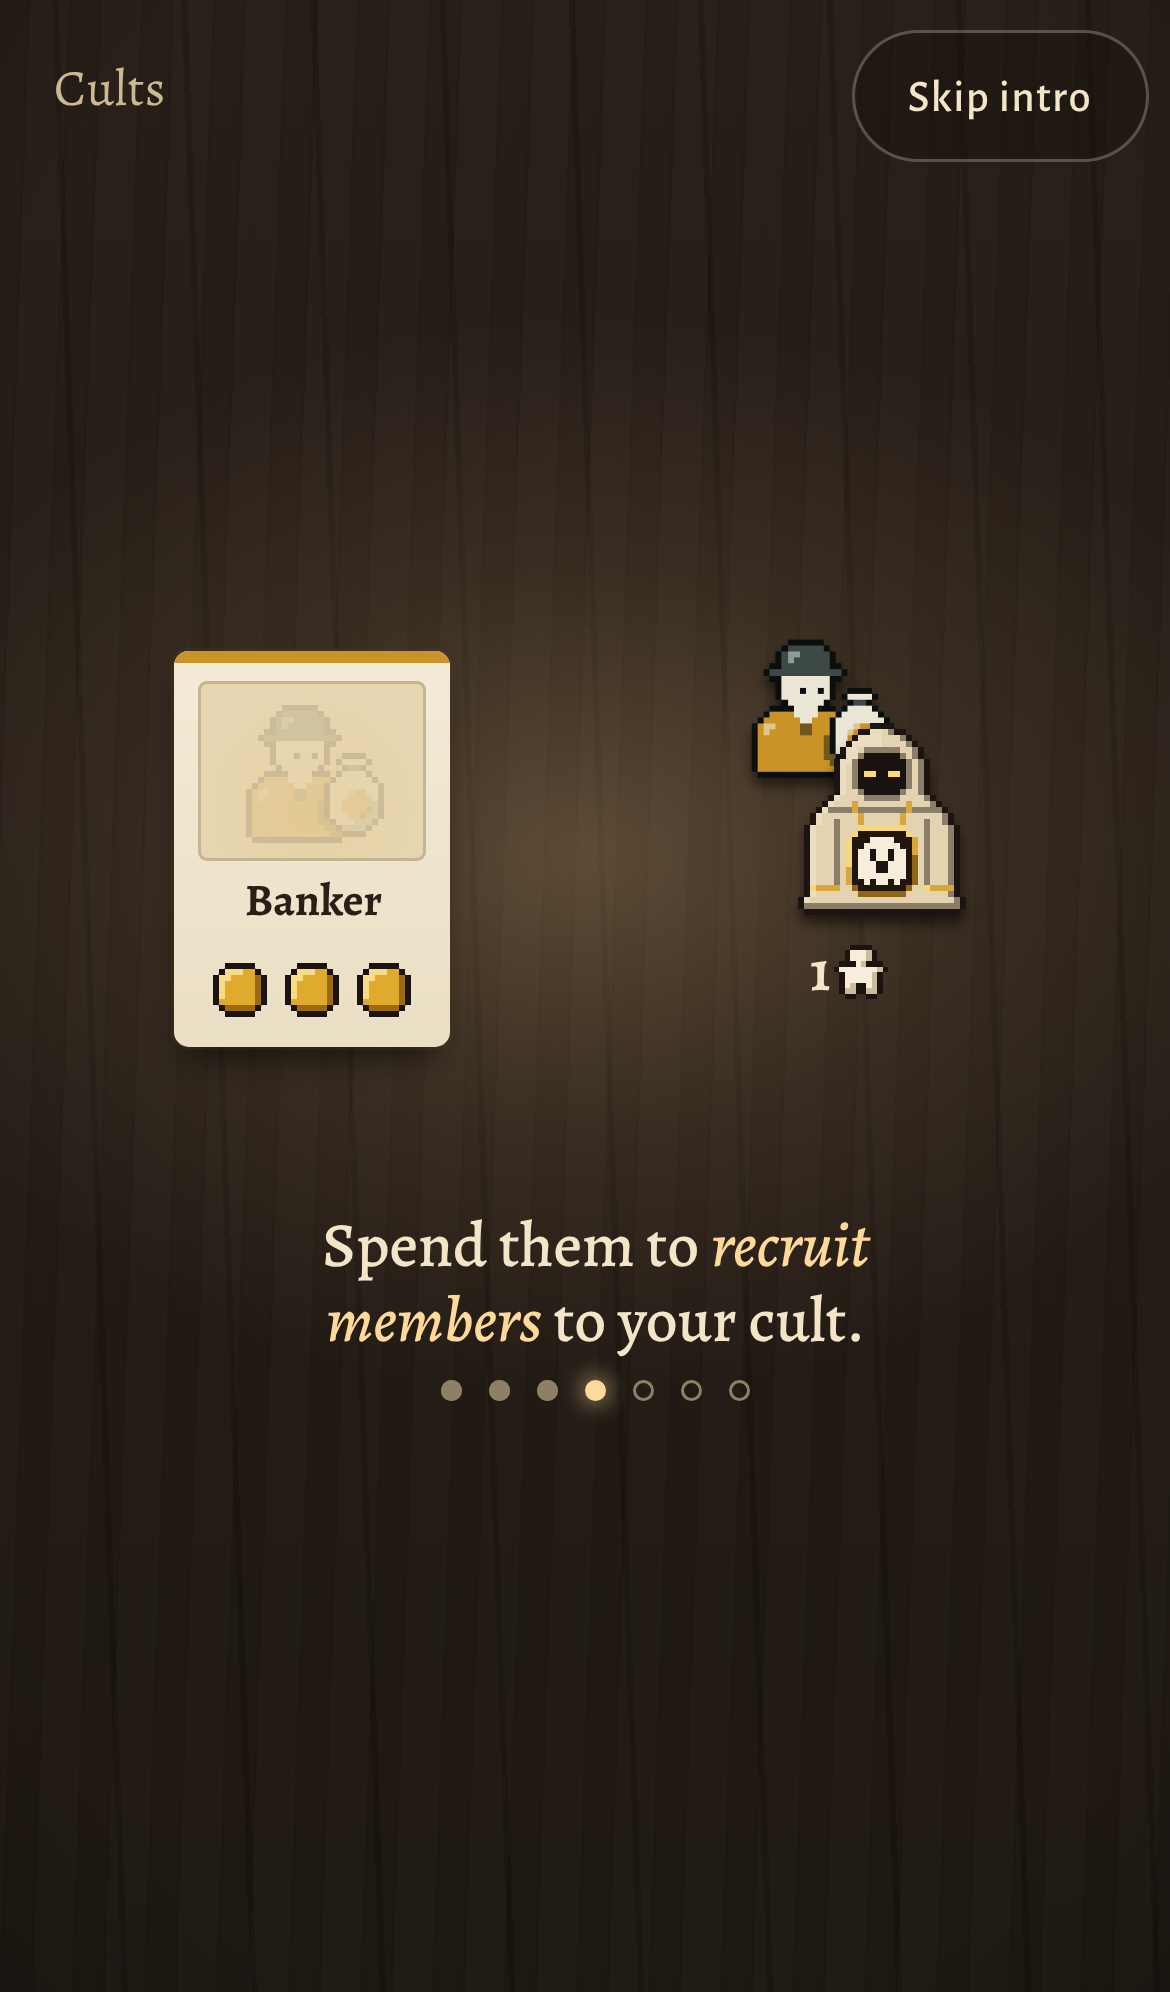
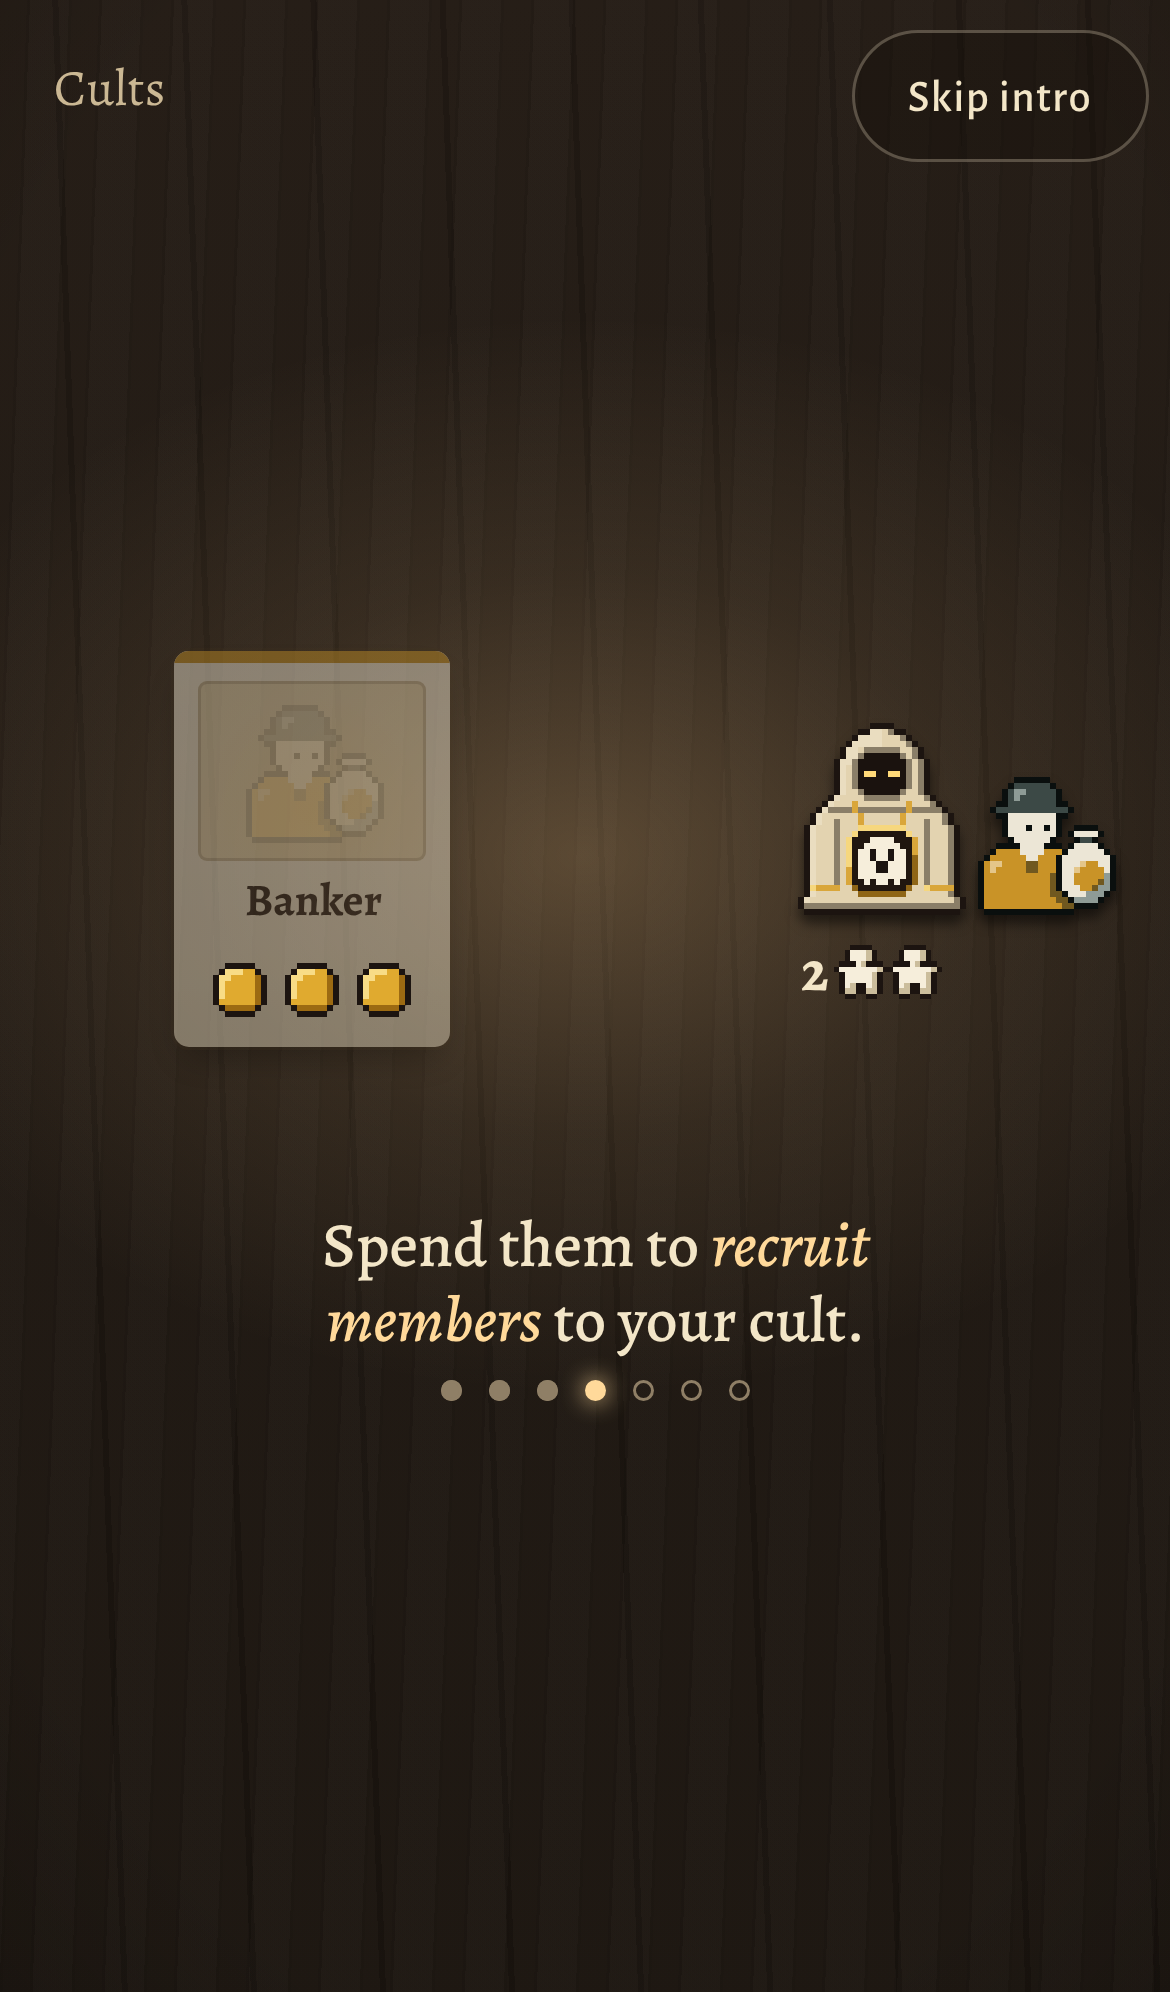
CI: run on release tags and by hand only, not on every WIP push (Cory: failure emails)
Claude-Session: https://claude.ai/code/session_017rw3aQa9iJEjdvvwQLY84z

diff --git a/src/v4/game/HoverCards.jsx b/src/v4/game/HoverCards.jsx
@@ -14,6 +14,7 @@ import { CostPips } from './Rich.jsx';
 import { ResourceGlyph, FollowerMark, SeatFigure } from './Glyphs.jsx';
 import { payBreakdown, contestEffect, unlockedBy, surely } from './cards.js';
 import { lastMoves } from './seats.js';
+import { memberCopyTargets } from './cards.js';
 import './lamp-b.css';
 
 const RINGS = ['outer ring', 'middle ring', 'inner ring'];
@@ -90,6 +91,7 @@ export function usePreviewWarmup(state, pid) {
  */
 export function HoverCardLayer({ hover, state, me, optionFor = () => null, onPick }) {
   const c = useHoverCard(hover);
+  useCopyTargets(c, state, me);
   const box = useRef(null);
   const [pos, setPos] = useState(null);
   useEffect(() => { if (c && !c.pinned) hover.close(); }, [state.moves]); // eslint-disable-line react-hooks/exhaustive-deps
@@ -133,6 +135,25 @@ export function HoverCardLayer({ hover, state, me, optionFor = () => null, onPic
     </div>
   );
 }
+/**
+ * While a copy space (Echo, Encore, Refrain…) or a copying member (Understudy) is under the pointer, the spaces it
+ * could copy light up on the wheel ("since your turn" targets), straight from the engine. Classes are toggled on the
+ * board's [data-slot] elements, so the wheel never re-renders for it.
+ */
+function useCopyTargets(c, state, me) {
+  const viewer = me != null ? me : state.pending ? state.pending.player : null;
+  const space = c && c.kind === 'space' ? c.key.split('-').map(Number) : null;
+  const pv = usePreview(state, space && viewer != null && !state.over ? viewer : null, space ? space[0] : 0, space ? space[1] : 0);
+  let keys = pv && pv.copies ? pv.copies : null;
+  if (!keys && c && c.kind === 'card' && viewer != null && state.cards[c.uid]) keys = memberCopyTargets(state, viewer, cardDef(state, c.uid));
+  const sig = keys ? keys.join(',') : '';
+  useEffect(() => {
+    if (!sig) return undefined;
+    const els = sig.split(',').flatMap(k => [...document.querySelectorAll(`[data-slot="${k}"]`)]);
+    for (const el of els) el.classList.add('copy-target');
+    return () => { for (const el of els) el.classList.remove('copy-target'); };
+  }, [sig]);
+}
 function cardBody(c, state, me, optionFor, pick) {
   if (c.kind === 'space') return <SpaceCard state={state} me={me} spaceKey={c.key} optionFor={optionFor} onPick={pick} pinned={c.pinned} />;
   if (c.kind === 'plaque') return <StandingsCard state={state} qid={c.qid} meId={me} />;
@@ -163,6 +184,7 @@ export function SpaceCard({ state, me, spaceKey, optionFor = () => null, onPick,
       <div className="t"><Sprite id={[a.id, spriteId(a.name)]} kind="action" sphere={sphereOf(qid)} size={48} /><h4>{a.name}<small>{Q.name} · {RINGS[a.ring - 1]}</small></h4></div>
       <p><CardText text={a.text} /></p>
       <div className="lt-yd">
+        {pv && pv.copies ? <Row k="Can copy">{pv.copies.length ? pv.copies.map(k => spaceName(state, k)).join(', ') : 'nothing yet'}</Row> : null}
         {open && viewer != null && !state.over ? <Row k="You get"><YoudGet state={state} pid={viewer} q={q} i={i} /></Row> : null}
         {race && <Row k={race.rule}>{race.text}</Row>}
         {unlocks.length ? <Row k="Unlocks">{unlocks.map((u, k) => <span key={u}>{k ? ', ' : ''}<CardName state={state} uid={u} /></span>)}</Row> : null}
@@ -182,6 +204,9 @@ function raceAfter(state, race, qid, pid) {
   const lead = c.winners.includes(pid) ? ` · you’d lead, +${c.prize}` : '';
   return { rule: c.rule.replace(/^Most /, '').replace(/^\w/, ch => ch.toUpperCase()), text: `${top}${lead}` };
 }
+
+/** "Rush (Bo)" for a board key. */
+const spaceName = (state, key) => { const [q, i] = key.split('-').map(Number); const a = quadrant(state.quadrants[q]).actions[i]; const o = state.slots[key]; return `${a.name}${o !== undefined ? ` (${state.players[o].name})` : ''}`; };
 
 /** A rim plaque: the contest's standings, straight from the engine. */
 export function StandingsCard({ state, qid, meId = null }) {

diff --git a/src/v4/game/Glyphs.jsx b/src/v4/game/Glyphs.jsx
@@ -67,35 +67,27 @@ export function SeatMinion({ id, size = 16, dim = false, title = null }) {
 }
 
 /**
- * A leader with its unplaced minions floating around it (Cory, 2026-10-14): how many are left is seen, not read.
- * The leader is the anchor a placed minion flies from (data-leader={id}); each floating minion is data-minion.
- * size: the leader (32 on your table); minion: each minion (16). compact packs the ring for the seat rail.
+ * A leader with the minions it still has to place in a quiet row beneath it (beside it when compact): how many are
+ * left is seen at a glance, and each one leaves the row when it's placed (Cory: no floating, no bobbing).
+ * The leader is the anchor a placed minion flies from (data-leader={id}); each waiting minion is data-minion.
  */
 export function LeaderRing({ state, id, size = 32, minion = 16, compact = false }) {
   const p = state.players[id];
   const n = Math.max(0, p.left || 0);
-  const W = compact ? size + minion * 1.6 : size + minion * 2.2;
-  const H = compact ? Math.max(size, 44) : size + minion * 1.6;
-  const cx = W / 2, cy = H / 2 + (compact ? 0 : minion * 0.15);
-  const R = size / 2 + minion * (compact ? 0.42 : 0.62);
-  // spread over the arc above and beside the leader, widening as more are left
-  const span = Math.min(300, 70 + n * 38);
-  const at = k => {
-    const a = (n === 1 ? 0 : -span / 2 + (span * k) / (n - 1)) * (Math.PI / 180);
-    return { left: cx + R * Math.sin(a) - minion / 2, top: cy - R * Math.cos(a) - minion / 2 };
-  };
-  const name = state.players[id].name;
+  const name = p.name;
   const label = `${name}'s leader${n ? ` and ${n} minion${n === 1 ? '' : 's'} still to place` : ', every minion placed'}`;
   return (
-    <span className={`lt-ring${compact ? ' compact' : ''}`} style={{ width: W, height: H }} title={label} aria-label={label} role="img" data-leader-ring={id} data-left={n}>
-      <span className="lead" data-leader={id} style={{ left: cx - size / 2, top: cy - size / 2 }}>
+    <span className={`lt-ring${compact ? ' compact' : ''}`} title={label} aria-label={label} role="img" data-leader-ring={id} data-left={n}>
+      <span className="lead" data-leader={id}>
         <Leader color={playerColor(id)} emoji={seatEmoji(state, id)} sigil={seatSigil(id)} size={size} />
       </span>
-      {Array.from({ length: n }, (_, k) => (
-        <span key={k} className="orbit" data-minion={id} data-k={k} style={{ ...at(k), width: minion, height: minion, animationDelay: `${-(k * 0.37).toFixed(2)}s` }}>
-          <Minion color={playerColor(id)} emoji={seatEmoji(state, id)} size={minion} />
+      {n > 0 && (
+        <span className="row" style={{ '--m': `${minion}px` }}>
+          {Array.from({ length: n }, (_, k) => (
+            <span key={k} className="min" data-minion={id} data-k={k}><Minion color={playerColor(id)} emoji={seatEmoji(state, id)} size={minion} /></span>
+          ))}
         </span>
-      ))}
+      )}
     </span>
   );
 }

diff --git a/src/v4/game/lamp-b.css b/src/v4/game/lamp-b.css
@@ -136,12 +136,13 @@
 .lt-chron ol{list-style:none;margin:0;padding:0;display:flex;flex-direction:column;gap:4px;font-size:13.5px;line-height:1.35;color:var(--paper-ink)}
 .lt-chron li{padding:3px 0;border-bottom:1px solid rgba(42,31,23,.08)}
 
-/* ---------- leaders and their floating minions ---------- */
-.lt-ring{position:relative;display:inline-block;flex:none}
-.lt-ring .lead,.lt-ring .orbit{position:absolute;display:block;line-height:0}
-.lt-ring .orbit{animation:minion-bob 2.6s ease-in-out infinite}
-@keyframes minion-bob{0%,100%{transform:translateY(0)}50%{transform:translateY(-2px)}}
-@media (prefers-reduced-motion: reduce){.lt-ring .orbit{animation:none}}
+/* ---------- leaders and the minions they still have to place (a quiet row, no motion) ---------- */
+.lt-ring{display:inline-flex;flex-direction:column;align-items:center;gap:2px;flex:none;line-height:0}
+.lt-ring.compact{flex-direction:row;align-items:flex-end;gap:3px}
+.lt-ring .lead{display:block;line-height:0}
+.lt-ring .row{display:flex;align-items:flex-end;line-height:0}
+.lt-ring .row .min{display:block;margin-left:calc(var(--m) * -0.25)}
+.lt-ring .row .min:first-child{margin-left:0}
 .leader,.minion{display:block;image-rendering:pixelated}
 .leader.dim,.minion.dim{opacity:.32}
 
@@ -183,7 +184,7 @@
 .cs-member:nth-child(3n+1) .fig .sprite{animation-name:cult-shift}
 @keyframes cult-breathe{0%,100%{transform:translateY(0)}55%{transform:translateY(-1px)}}
 @keyframes cult-shift{0%,100%{transform:translateX(0)}40%{transform:translateX(1px)}70%{transform:translateX(-1px)}}
-.lt-ring .lead .leader{animation:cult-breathe 3.1s steps(1,end) infinite;animation-delay:calc(var(--lph,0) * -3s)}
+.lt-ring .lead .leader{animation:cult-breathe 3.1s steps(1,end) infinite}
 .leader .blink{opacity:0;animation:cult-blink 4.7s steps(1,end) infinite}
 @keyframes cult-blink{0%,93%,100%{opacity:0}94%,97%{opacity:1}}
 .cs-member.react-hop .fig{animation:cult-hop .5s steps(5,end) 1}
@@ -197,3 +198,6 @@
 @media (prefers-reduced-motion: reduce){
   .cs-member .fig .sprite,.lt-ring .lead .leader,.leader .blink,.cs-member.react-hop .fig,.cs-leader[class*="react-"] .lead{animation:none}
 }
+
+/* a copy space (or Understudy) under the pointer lights what it could copy */
+.copy-target .base{box-shadow:0 0 0 3px #ffd99a,0 0 14px 2px rgba(255,217,154,.8) !important}

diff --git a/src/v4/game/cards.js b/src/v4/game/cards.js
@@ -1,6 +1,8 @@
 // Card facts for the Lamplit shop and hover cards: timing tags, what paying leaves, how a buy moves the contests,
 // and which face-up cards a space would make affordable. All read off the engine; nothing here is a rule.
 import { cardDef, paymentPlan, contestTable, quadrant } from '../../engine/v4/index.js';
+import { contextFor } from '../../engine/v4/core.js';
+import { targets as echoTargets } from '../../engine/v4/content/echo.js';
 
 // The card's timing, from how its text opens (the tag above the name).
 const TIMINGS = [
@@ -86,3 +88,12 @@ export function unlockedBy(state, p, gain) {
 }
 /** The guaranteed gains of a preview (the low end of each color's range). */
 export const surely = pv => (pv ? Object.fromEntries(Object.entries(pv.you.res).map(([r, [lo]]) => [r, lo])) : {});
+
+/**
+ * The spaces a copying member would copy if recruited now (Understudy: a rival's space since your last turn), as
+ * board keys, from Green's own target rule; null for any other member or when Green isn't on the table.
+ */
+export function memberCopyTargets(state, pid, def) {
+  if (!state.quadrants.includes('echo') || !/copy a space a rival took since your last turn/i.test(def.text || '')) return null;
+  try { return [...new Set(echoTargets(contextFor(state), state.players[pid], 'since').map(e => String(e.key).split('+')[0]))]; } catch { return null; }
+}

diff --git a/src/test/v4/harness.test.js b/src/test/v4/harness.test.js
@@ -16,7 +16,7 @@ describe('v4 harness', () => {
 
   it('CI runs check:v4 --fast with node 22 and npm ci on pushes to the v4 branch, and deploys nothing', () => {
     const wf = read('.github/workflows/v4.yml');
-    expect(wf).toMatch(/branches: \[claude\/gifted-newton-3lcy3i\]/);
+    expect(wf).toMatch(/tags: \['v\*'\]/); // release tags and manual runs only, not every WIP push
     expect(wf).toMatch(/node-version: 22/);
     expect(wf).toMatch(/run: npm ci/);
     expect(wf).toMatch(/run: npm run check:v4 -- --fast/);

diff --git a/design/decisions.md b/design/decisions.md
@@ -324,3 +324,4 @@ One line per decision or idea. Newest at the bottom. Status: ✅ decided · 💡
 - (Cory) Release gives back only the member's colored part, in its own color, or in any colors when that color isn't on the table. A member with no colored part can't be released (Volunteer). Bots value a release the same way.
 - (Cory) The floating minions around the leader are too much visual noise: a quiet static row of small minions beside the leader instead; only leaders and members get idle motion.
 - Watch items from the reworks: Green's last round-I seat wins 31% (±2.6) after the Echo change (was 28%); in one White game a single seat took 3 of the four 10-follower buys in round II and the game ended after round II (the clock can be rushed by one player).
+- (Cory) GitHub's automatic test runs emailed a failure on every work-in-progress push. They now run only by hand or on a release tag (v0.2…).
